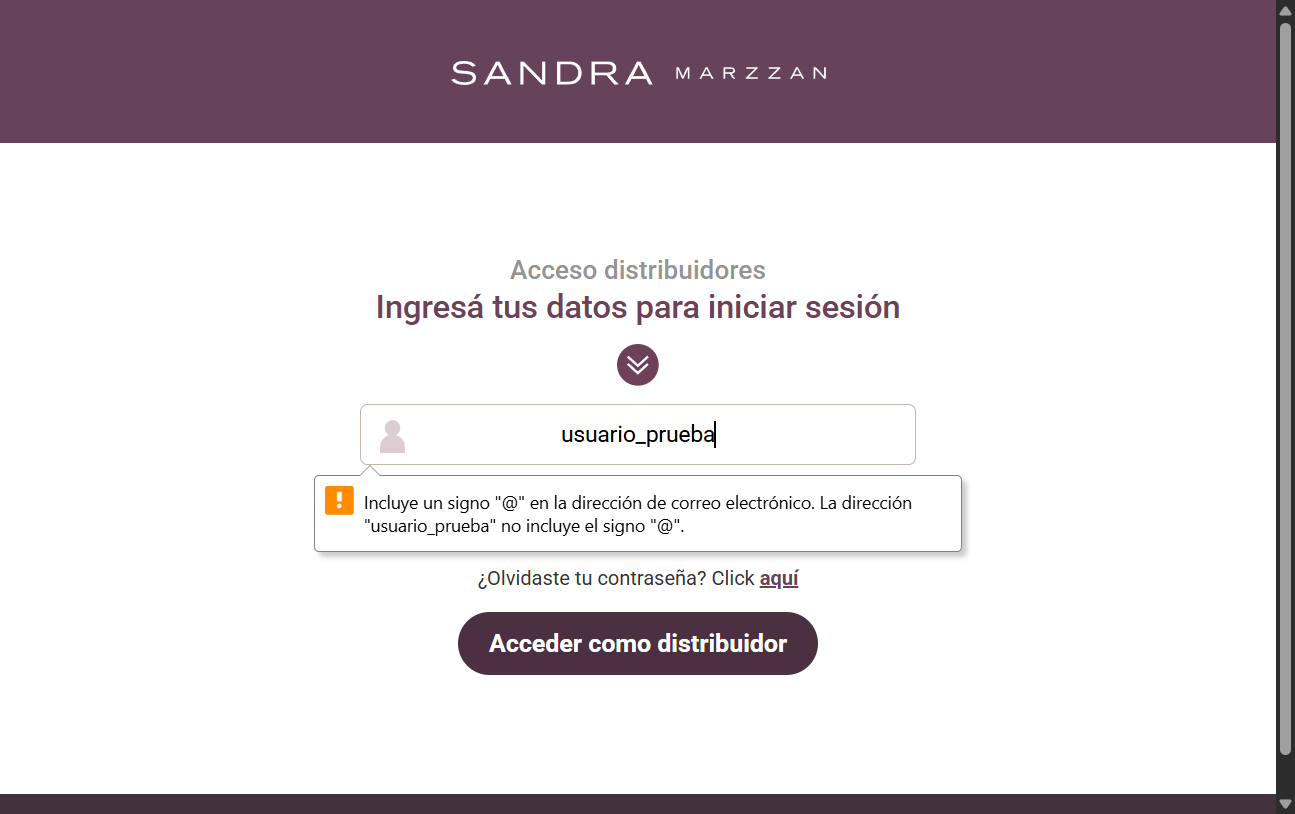
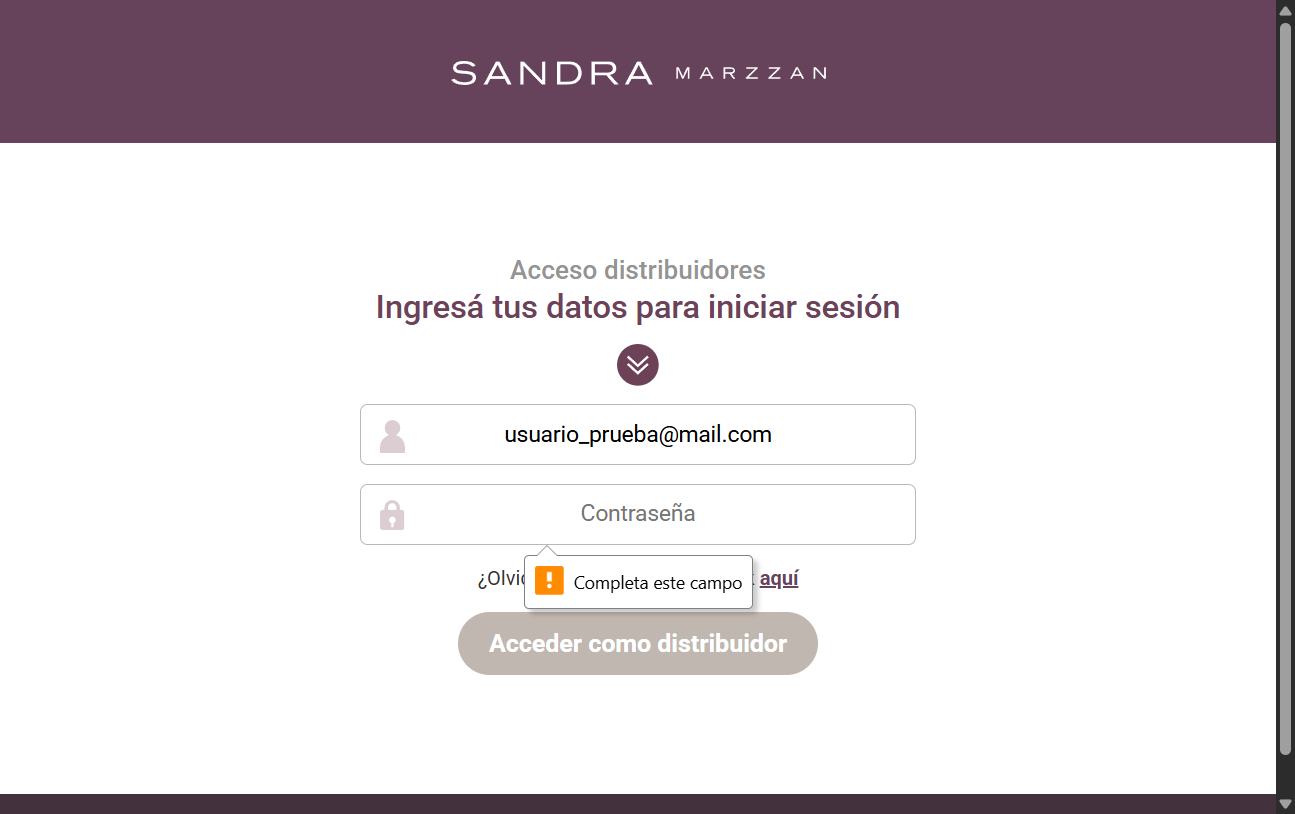
Actualización del README y scripts de login

Changed region(s): [[0.2471, 0.5835, 0.7413, 0.8292], [0.3707, 0.5221, 0.5869, 0.5528], [0.7413, 0.5835, 0.7722, 0.6757]]

diff --git a/test_login.py b/test_login.py
@@ -1,6 +1,15 @@
 from selenium import webdriver
 from selenium.webdriver.common.by import By
 import time
+import os
+
+# Leer usuario y contraseña desde variables de entorno
+usuario = os.getenv("TEST_USER")
+contraseña = os.getenv("TEST_PASS")
+
+# Verificar que las variables estén definidas
+if not usuario or not contraseña:
+    raise Exception("ERROR: Las variables de entorno TEST_USER y TEST_PASS no están definidas.")
 
 # Iniciar navegador
 driver = webdriver.Chrome()
@@ -8,8 +17,8 @@ driver.get("https://distribuidores.sandramarzzan.com.ar/login.php")
 time.sleep(2)
 
 # Completar usuario y contraseña
-driver.find_element(By.NAME, "email").send_keys("usuario_prueba")
-driver.find_element(By.NAME, "doc").send_keys("clave_prueba")
+driver.find_element(By.NAME, "email").send_keys(usuario)
+driver.find_element(By.NAME, "doc").send_keys(contraseña)
 
 # Click en botón
 driver.find_element(By.XPATH, "//input[@type='submit']").click()

diff --git a/test_login_invalid.py b/test_login_invalid.py
@@ -26,4 +26,7 @@ def probar_login(usuario, contraseña, nombre_archivo):
 probar_login("", "clave_prueba", "resultado_error_usuario.png")
 
 # 🔴 Caso 2: Contraseña vacía
-probar_login("usuario_prueba", "", "resultado_error_contraseña.png")
+probar_login("usuario_prueba@mail.com", "", "resultado_error_contraseña.png")
+
+# 🔴 Caso 3: Usuario y contraseña inválidos (usuario mal formado o credenciales incorrectas)
+probar_login("usuario_invalido@mail.com", "clave_invalida", "resultado_login_invalido.png")
